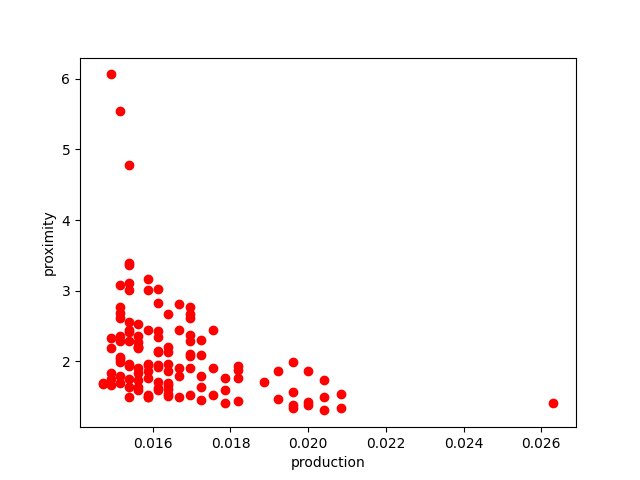
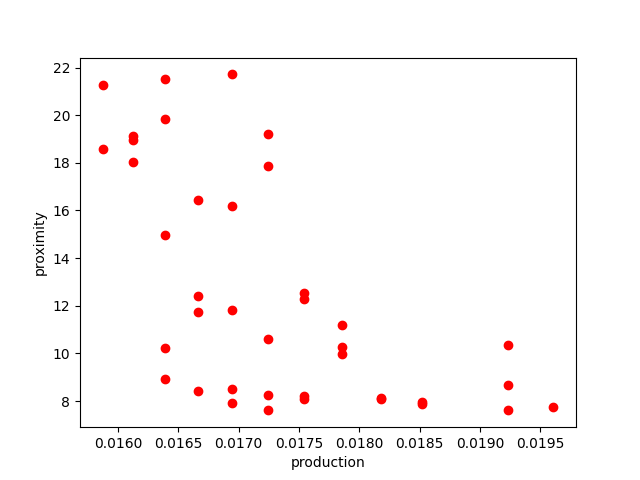
elctre

diff --git a/main.py b/main.py
@@ -446,8 +446,8 @@ def genetic_algorithm(initial_population_size, iteration):
         nouvelle_population = selection(nouvelle_population, initial_population_size)
     print(" Solution Cost: € {:,}".format(
         cost_bought_plot(nouvelle_population[0])))
-    plot_solution(nouvelle_population[0])
-    plot_pareto(nouvelle_population)
+    #plot_solution(nouvelle_population[0])
+    #plot_pareto(nouvelle_population)
 
     # Tester s'il y a des doublons dans la solution finale
     # find_double_sublists(nouvelle_population)
@@ -600,6 +600,19 @@ def find_double_sublists(lst):
     print(double_sublists)
 
 
+
+def electre(population_finale, poids_compacite = 0.33, poids_proximite = 0.33, poids_production = 0.33):
+    population_avec_score_normalise = population_with_normalized_score(population_finale)
+    pareto_frontier, population_avec_score_normalise = get_pareto_frontier(
+        population_avec_score_normalise)
+    liste_de_scores_finaux = []
+    for solution in pareto_frontier:
+        solution_avec_score_finale = (solution[0], solution[1]*poids_compacite + solution[2]*poids_proximite + solution[3]*poids_production)
+        liste_de_scores_finaux.append(solution_avec_score_finale)
+    liste_de_scores_finaux_triee = sorted(liste_de_scores_finaux, key=lambda x: x[1], reverse=False)
+    return liste_de_scores_finaux_triee[0][0]
+
+
 if __name__ == "__main__":
     """1: Loading the problem's maps"""
     COST_MAP = load_map(COST_MAP_PATH)
@@ -616,11 +629,19 @@ if __name__ == "__main__":
     """2: INITIAL POPULATION """
 
     # Generate initial population randomly ⇾ cover as much as possible the solution space
-    population_amelioree = genetic_algorithm(500, 500)
-
+    population_amelioree = genetic_algorithm(500, 10)
+    print(population_amelioree[0])
     # Determine the dominant solutions
     # Plot the frontier and generate csv files
 
     """3: MCDA: ELECTRE or PROMETHEE"""
+
+    #poids_proximite = int(input("poids proximité (33% si rien):"))
+    #poids_compacite = int(input("poids compacité (33% si rien):"))
+    #poids_production = 1 - poids_compacite - poids_proximite
+    solution_finale = electre(population_amelioree)
+    print(solution_finale)
+    plot_solution(solution_finale)
+
 
     # Rank the solutions from the Pareto Frontier according to ELECTRE/PROMETHEE.
